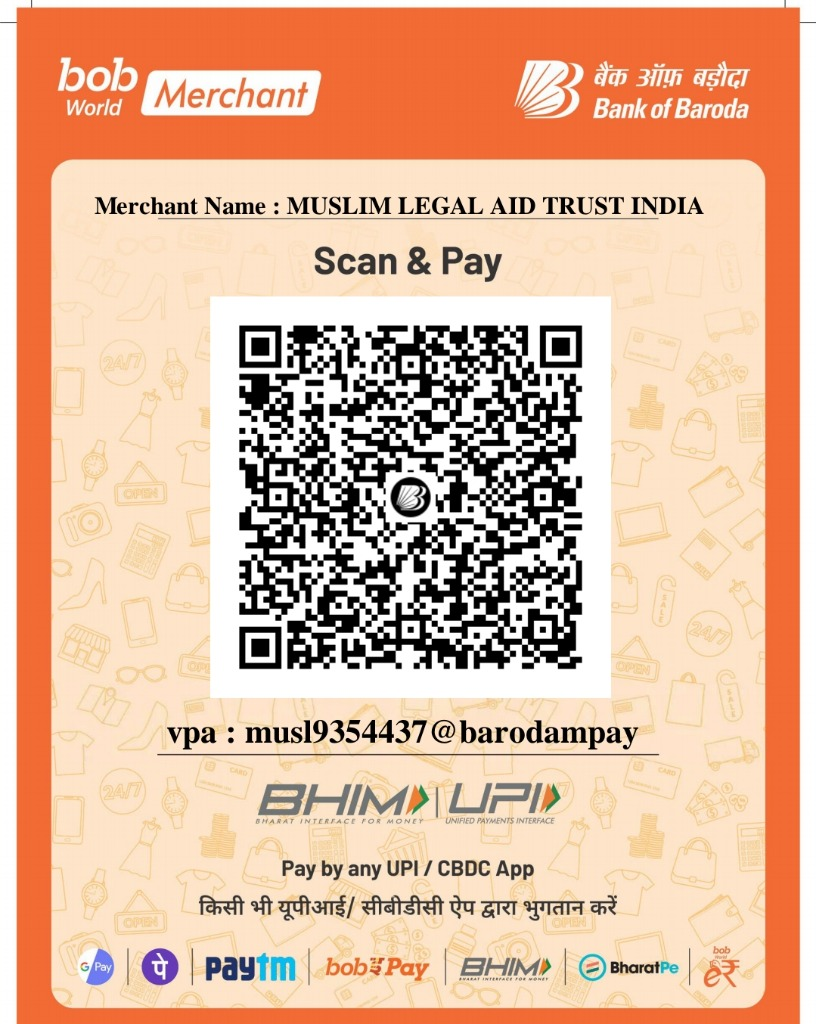
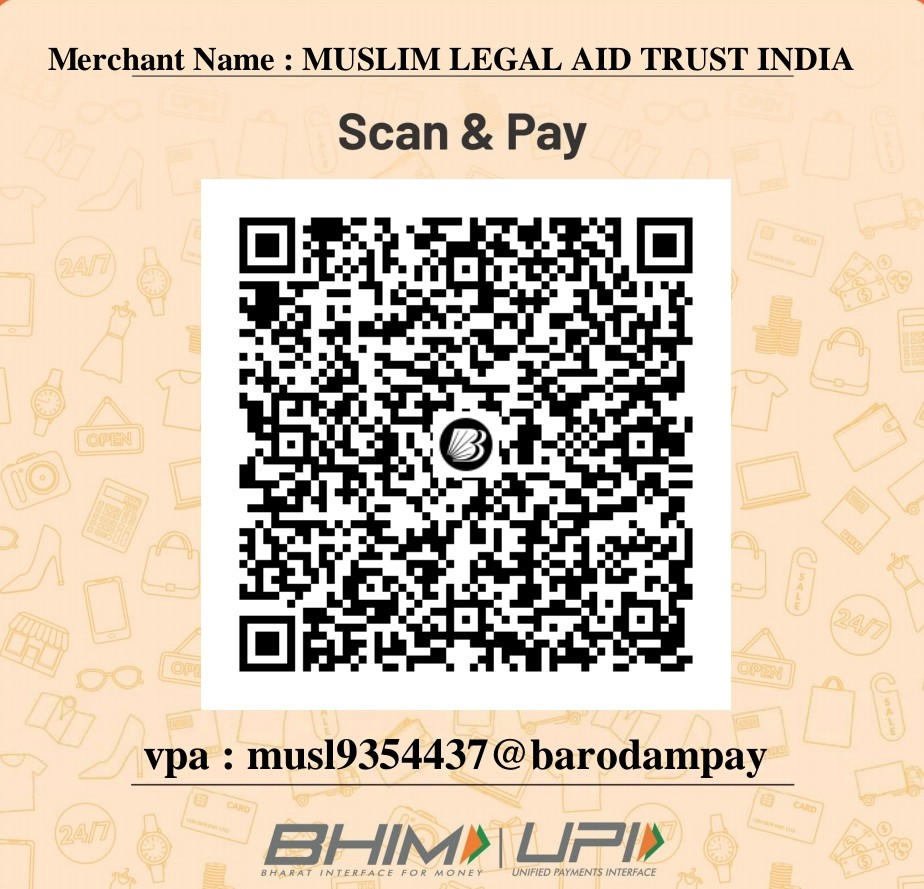
add bank transfer option, custom amount, new UPI QR

diff --git a/app/donate/page.tsx b/app/donate/page.tsx
@@ -6,7 +6,7 @@ import Navbar from "../components/Navbar";
 import Footer from "../components/Footer";
 import PageHero from "../components/PageHero";
 import MembershipForm from "./MembershipForm";
-import { UPI_ID, MERCHANT_NAME } from "./upi";
+import { UPI_ID, MERCHANT_NAME, BANK_DETAILS } from "./upi";
 
 const amounts = [500, 1000, 2500, 5000];
 
@@ -36,8 +36,9 @@ export default function DonatePage() {
   const [tab, setTab] = useState<"donate" | "membership">("donate");
 
   // Form Fields
-  const [selected, setSelected] = useState<number>(1000);
-  const [custom, setCustom] = useState<string>("");
+  const [amountInput, setAmountInput] = useState<string>("1000");
+  const [method, setMethod] = useState<"upi" | "bank">("upi");
+  const [copiedField, setCopiedField] = useState<string>("");
   const [name, setName] = useState<string>("");
   const [phone, setPhone] = useState<string>("");
   const [email, setEmail] = useState<string>("");
@@ -55,12 +56,20 @@ export default function DonatePage() {
   const [errorMsg, setErrorMsg] = useState<string>("");
   const [successData, setSuccessData] = useState<{ utr: string; amount: number } | null>(null);
 
-  const activeAmount = custom ? Number(custom) : selected;
+  const activeAmount = Number(amountInput) >= 1 ? Number(amountInput) : 0;
+  const amountInputRef = useRef<HTMLInputElement>(null);
+  const isCustomAmount = !amounts.includes(Number(amountInput));
 
   const handleCopyUpi = () => {
     navigator.clipboard.writeText(UPI_ID);
     setCopied(true);
     setTimeout(() => setCopied(false), 2500);
+  };
+
+  const handleCopyField = (key: string, value: string) => {
+    navigator.clipboard.writeText(value);
+    setCopiedField(key);
+    setTimeout(() => setCopiedField((c) => (c === key ? "" : c)), 2000);
   };
 
   const handleFileChange = (e: React.ChangeEvent<HTMLInputElement>) => {
@@ -94,8 +103,8 @@ export default function DonatePage() {
     e.preventDefault();
     setErrorMsg("");
 
-    if (!activeAmount || activeAmount <= 0) {
-      setErrorMsg("Please choose or enter a valid donation amount.");
+    if (!activeAmount || activeAmount < 1) {
+      setErrorMsg("Please choose or enter a valid donation amount (minimum ₹1).");
       return;
     }
     if (!name.trim()) {
@@ -119,7 +128,13 @@ export default function DonatePage() {
     e.preventDefault();
     setErrorMsg("");
 
-    if (!/^\d{12}$/.test(utr.replace(/\s+/g, ""))) {
+    const cleanUtr = utr.replace(/\s+/g, "");
+    if (method === "bank") {
+      if (!/^[A-Za-z0-9]{12,22}$/.test(cleanUtr)) {
+        setErrorMsg("Please enter the Bank Transaction / UTR reference (12 to 22 letters or digits).");
+        return;
+      }
+    } else if (!/^\d{12}$/.test(cleanUtr)) {
       setErrorMsg("Please enter the 12-digit UPI Reference / UTR Number (digits only).");
       return;
     }
@@ -137,6 +152,7 @@ export default function DonatePage() {
       formData.append("email", email.trim());
       formData.append("amount", activeAmount.toString());
       formData.append("utr", utr.trim());
+      formData.append("method", method);
       formData.append("notes", notes.trim());
       formData.append("receipt", file);
 
@@ -305,7 +321,7 @@ export default function DonatePage() {
                   Every Contribution Builds a Fairer Future
                 </h2>
                 <p className="text-[13.5px] text-slate-500 mt-2">
-                  Select your contribution amount and fill in your details to generate your verified UPI scanner.
+                  Select your contribution amount, choose how you want to pay, and fill in your details.
                 </p>
 
                 {errorMsg && (
@@ -323,17 +339,14 @@ export default function DonatePage() {
                     <label className="text-[12.5px] font-bold uppercase tracking-wider text-slate-600 block mb-2">
                       Select Amount (₹)
                     </label>
-                    <div className="grid grid-cols-2 sm:grid-cols-4 gap-3">
+                    <div className="grid grid-cols-2 sm:grid-cols-5 gap-3">
                       {amounts.map((amt) => (
                         <button
                           key={amt}
                           type="button"
-                          onClick={() => {
-                            setSelected(amt);
-                            setCustom("");
-                          }}
+                          onClick={() => setAmountInput(String(amt))}
                           className={`py-3.5 rounded-xl text-[15px] font-bold border transition-all ${
-                            !custom && selected === amt
+                            Number(amountInput) === amt
                               ? "bg-[#0066FF] text-white border-[#0066FF] shadow-md shadow-blue-500/25 scale-[1.02]"
                               : "bg-slate-50 text-[#0D233A] border-slate-200 hover:border-[#0066FF]/50"
                           }`}
@@ -341,24 +354,68 @@ export default function DonatePage() {
                           ₹{amt.toLocaleString("en-IN")}
                         </button>
                       ))}
+                      <button
+                        type="button"
+                        onClick={() => {
+                          setAmountInput("");
+                          amountInputRef.current?.focus();
+                        }}
+                        className={`col-span-2 sm:col-span-1 py-3.5 rounded-xl text-[15px] font-bold border transition-all ${
+                          isCustomAmount
+                            ? "bg-[#0066FF] text-white border-[#0066FF] shadow-md shadow-blue-500/25 scale-[1.02]"
+                            : "bg-slate-50 text-[#0D233A] border-slate-200 hover:border-[#0066FF]/50"
+                        }`}
+                      >
+                        Custom
+                      </button>
                     </div>
                   </div>
 
-                  {/* Custom Amount */}
+                  {/* Amount box: shows the selected preset and accepts any custom amount */}
                   <div>
                     <label className="text-[12.5px] font-semibold text-slate-500 block mb-1.5">
-                      Or enter a custom amount (₹)
+                      Custom amount (₹) — any amount from ₹1
                     </label>
                     <div className="relative">
                       <span className="absolute left-4 top-1/2 -translate-y-1/2 text-slate-400 font-bold text-base">₹</span>
                       <input
+                        ref={amountInputRef}
                         type="number"
                         min={1}
-                        placeholder="e.g. 1500"
-                        value={custom}
-                        onChange={(e) => setCustom(e.target.value)}
+                        step={1}
+                        inputMode="numeric"
+                        placeholder="Enter any amount, e.g. 1"
+                        value={amountInput}
+                        onChange={(e) => setAmountInput(e.target.value)}
                         className="w-full pl-9 pr-4 py-3 bg-slate-50 border border-slate-200 rounded-xl text-[15px] font-semibold text-[#0D233A] placeholder-slate-400 focus:outline-none focus:ring-2 focus:ring-[#0066FF] focus:bg-white transition-all"
                       />
+                    </div>
+                  </div>
+
+                  {/* Payment Method */}
+                  <div>
+                    <label className="text-[12.5px] font-bold uppercase tracking-wider text-slate-600 block mb-2">
+                      Payment Method
+                    </label>
+                    <div className="grid grid-cols-2 gap-3">
+                      {([
+                        ["upi", "UPI", "Scan QR / UPI app"],
+                        ["bank", "Bank Account", "NEFT / IMPS / RTGS"],
+                      ] as const).map(([key, label, sub]) => (
+                        <button
+                          key={key}
+                          type="button"
+                          onClick={() => setMethod(key)}
+                          className={`py-3 px-4 rounded-xl border text-left transition-all cursor-pointer ${
+                            method === key
+                              ? "bg-blue-50 border-[#0066FF] ring-2 ring-[#0066FF]/20"
+                              : "bg-slate-50 border-slate-200 hover:border-[#0066FF]/50"
+                          }`}
+                        >
+                          <span className="block text-[14.5px] font-bold text-[#0D233A]">{label}</span>
+                          <span className="block text-[11.5px] text-slate-500">{sub}</span>
+                        </button>
+                      ))}
                     </div>
                   </div>
 
@@ -533,7 +590,60 @@ export default function DonatePage() {
               )}
 
               <div className="grid grid-cols-1 lg:grid-cols-12 gap-8 items-start">
+                {/* Left: Bank details (bank method) */}
+                {method === "bank" && (
+                  <div className="lg:col-span-5 bg-white rounded-3xl shadow-[0_10px_35px_rgba(13,35,58,0.08)] border border-slate-200/80 p-6">
+                    <div className="inline-flex items-center gap-2 px-3 py-1 bg-amber-50 border border-amber-200/70 rounded-full text-[12px] font-bold text-amber-800 mb-4">
+                      <span className="w-2 h-2 rounded-full bg-amber-500 animate-pulse" />
+                      Bank Account Transfer
+                    </div>
+                    <h3 className="text-[17px] font-extrabold text-[#0D233A]">Bank Account Details</h3>
+                    <p className="text-[12.5px] text-slate-500 mt-1">
+                      Transfer ₹{activeAmount.toLocaleString("en-IN")} via NEFT / IMPS / RTGS to the account below.
+                    </p>
+
+                    <div className="mt-4 space-y-2.5">
+                      {([
+                        ["holder", "Account Holder Name", BANK_DETAILS.accountHolder, true],
+                        ["acc", "Account Number", BANK_DETAILS.accountNumber, true],
+                        ["ifsc", "IFSC Code", BANK_DETAILS.ifsc, true],
+                        ["bank", "Bank Name", BANK_DETAILS.bankName, false],
+                        ["type", "Account Type", BANK_DETAILS.accountType, false],
+                        ["branch", "Branch", BANK_DETAILS.branch, false],
+                        ["city", "City / State / PIN", `${BANK_DETAILS.city}, ${BANK_DETAILS.state} - ${BANK_DETAILS.pincode}`, false],
+                      ] as const).map(([key, label, value, copyable]) => (
+                        <div key={key} className="p-3 bg-slate-50 border border-slate-200/80 rounded-2xl">
+                          <p className="text-[11px] font-bold text-slate-400 uppercase tracking-wider">{label}</p>
+                          <div className="flex items-center justify-between gap-2 mt-0.5">
+                            <span className={`text-[14px] font-bold text-[#0D233A] break-words min-w-0 ${copyable ? "font-mono" : ""}`}>
+                              {value}
+                            </span>
+                            {copyable && (
+                              <button
+                                type="button"
+                                onClick={() => handleCopyField(key, value)}
+                                className={`px-3 py-1.5 rounded-lg text-[12px] font-bold transition-all cursor-pointer flex-shrink-0 ${
+                                  copiedField === key
+                                    ? "bg-emerald-600 text-white"
+                                    : "bg-[#0066FF] hover:bg-[#0052CC] text-white"
+                                }`}
+                              >
+                                {copiedField === key ? "Copied!" : "Copy"}
+                              </button>
+                            )}
+                          </div>
+                        </div>
+                      ))}
+                    </div>
+
+                    <p className="mt-4 text-[12px] leading-relaxed text-amber-800 bg-amber-50 border border-amber-200/70 rounded-xl p-3">
+                      Note: In the IFSC, the character after <strong>B</strong> is the digit zero (<strong>0</strong>), not the letter O. Please verify the beneficiary name and account details with your bank before transferring.
+                    </p>
+                  </div>
+                )}
+
                 {/* Left: UPI Scanner Poster */}
+                {method === "upi" && (
                 <div className="lg:col-span-5 bg-white rounded-3xl shadow-[0_10px_35px_rgba(13,35,58,0.08)] border border-slate-200/80 p-6 text-center">
                   <div className="inline-flex items-center gap-2 px-3 py-1 bg-amber-50 border border-amber-200/70 rounded-full text-[12px] font-bold text-amber-800 mb-4">
                     <span className="w-2 h-2 rounded-full bg-amber-500 animate-pulse" />
@@ -606,6 +716,7 @@ export default function DonatePage() {
                     </a>
                   </div>
                 </div>
+                )}
 
                 {/* Right: Receipt Upload Form */}
                 <div className="lg:col-span-7 bg-white rounded-3xl shadow-[0_10px_35px_rgba(13,35,58,0.08)] border border-slate-200/80 p-6 sm:p-10">
@@ -618,25 +729,30 @@ export default function DonatePage() {
                     Upload Payment Receipt
                   </h2>
                   <p className="text-[13.5px] text-slate-500 mt-1.5">
-                    After completing the payment on your UPI app, please enter your transaction reference number and attach the screenshot.
+                    {method === "bank"
+                      ? "After completing the bank transfer, please enter your transaction reference (UTR) number and attach the payment screenshot or receipt."
+                      : "After completing the payment on your UPI app, please enter your transaction reference number and attach the screenshot."}
                   </p>
 
                   <form onSubmit={handleSubmitReceipt} className="mt-6 space-y-5">
                     {/* 12 Digit UTR Number */}
                     <div>
                       <label className="text-[13px] font-bold text-[#0D233A] block mb-1">
-                        12-Digit UPI Reference No. / UTR <span className="text-red-500">*</span>
+                        {method === "bank" ? "Bank Transaction Ref. No. / UTR" : "12-Digit UPI Reference No. / UTR"}{" "}
+                        <span className="text-red-500">*</span>
                       </label>
                       <input
                         type="text"
                         required
-                        placeholder="e.g. 429182749102"
+                        placeholder={method === "bank" ? "e.g. BARBN26123456789" : "e.g. 429182749102"}
                         value={utr}
                         onChange={(e) => setUtr(e.target.value)}
                         className="w-full px-4 py-3 bg-slate-50 border border-slate-200 rounded-xl text-[15px] font-mono text-[#0D233A] placeholder-slate-400 focus:outline-none focus:ring-2 focus:ring-[#0066FF] focus:bg-white transition-all tracking-wide"
                       />
                       <p className="text-[11.5px] text-slate-400 mt-1">
-                        You can find this 12-digit number in the payment details on GPay, PhonePe, or Paytm.
+                        {method === "bank"
+                          ? "Find the UTR / reference number in your net banking or bank app transaction details (12–22 characters)."
+                          : "You can find this 12-digit number in the payment details on GPay, PhonePe, or Paytm."}
                       </p>
                     </div>
 
@@ -776,7 +892,9 @@ export default function DonatePage() {
                   </span>
                 </div>
                 <div className="flex justify-between items-center py-1 border-b border-slate-200/60">
-                  <span className="text-[13px] text-slate-500 font-medium">UPI UTR / Ref No.</span>
+                  <span className="text-[13px] text-slate-500 font-medium">
+                    {method === "bank" ? "Bank UTR / Ref No." : "UPI UTR / Ref No."}
+                  </span>
                   <span className="text-[13.5px] font-mono font-bold text-[#0D233A]">
                     {successData?.utr}
                   </span>
@@ -869,11 +987,19 @@ export default function DonatePage() {
             <div className="grid grid-cols-1 sm:grid-cols-2 lg:grid-cols-4 gap-4 mt-6">
               <div className="p-4 rounded-2xl bg-slate-50 border border-slate-200/80">
                 <span className="text-[11.5px] font-bold text-slate-400 uppercase tracking-wider block">Beneficiary Name</span>
-                <span className="text-[14px] font-bold text-[#0D233A] mt-1 block">Muslim Legal Aid Trust India</span>
+                <span className="text-[14px] font-bold text-[#0D233A] mt-1 block">{BANK_DETAILS.accountHolder}</span>
               </div>
               <div className="p-4 rounded-2xl bg-slate-50 border border-slate-200/80">
-                <span className="text-[11.5px] font-bold text-slate-400 uppercase tracking-wider block">Bank Name</span>
-                <span className="text-[14px] font-bold text-[#0D233A] mt-1 block">Bank of Baroda</span>
+                <span className="text-[11.5px] font-bold text-slate-400 uppercase tracking-wider block">Bank / Branch</span>
+                <span className="text-[14px] font-bold text-[#0D233A] mt-1 block">{BANK_DETAILS.bankName}, GTR Panipat</span>
+              </div>
+              <div className="p-4 rounded-2xl bg-slate-50 border border-slate-200/80">
+                <span className="text-[11.5px] font-bold text-slate-400 uppercase tracking-wider block">Account Number ({BANK_DETAILS.accountType})</span>
+                <span className="text-[14px] font-mono font-bold text-[#0D233A] mt-1 block">{BANK_DETAILS.accountNumber}</span>
+              </div>
+              <div className="p-4 rounded-2xl bg-slate-50 border border-slate-200/80">
+                <span className="text-[11.5px] font-bold text-slate-400 uppercase tracking-wider block">IFSC Code</span>
+                <span className="text-[14px] font-mono font-bold text-[#0D233A] mt-1 block">{BANK_DETAILS.ifsc}</span>
               </div>
               <div className="p-4 rounded-2xl bg-slate-50 border border-slate-200/80">
                 <span className="text-[11.5px] font-bold text-slate-400 uppercase tracking-wider block">UPI VPA</span>

diff --git a/app/api/donate/route.ts b/app/api/donate/route.ts
@@ -32,7 +32,16 @@ export async function POST(req: Request) {
       );
     }
 
-    if (!/^\d{12}$/.test(utr)) {
+    const isBank = form.get("method")?.toString() === "bank";
+    if (isBank) {
+      // IMPS: 12 digits, NEFT: 16 alphanumeric, RTGS: 22 alphanumeric.
+      if (!/^[A-Za-z0-9]{12,22}$/.test(utr)) {
+        return NextResponse.json(
+          { error: "Bank Transaction / UTR reference must be 12 to 22 letters or digits." },
+          { status: 400 }
+        );
+      }
+    } else if (!/^\d{12}$/.test(utr)) {
       return NextResponse.json(
         { error: "UPI Reference / UTR must be exactly 12 digits." },
         { status: 400 }
@@ -40,7 +49,7 @@ export async function POST(req: Request) {
     }
 
     const amount = Number(amountStr);
-    if (isNaN(amount) || amount <= 0) {
+    if (isNaN(amount) || amount < 1) {
       return NextResponse.json({ error: "Invalid donation amount." }, { status: 400 });
     }
 
@@ -107,7 +116,7 @@ export async function POST(req: Request) {
         utr_number: utr,
         receipt_url: receiptUrl,
         receipt_file_id: receiptFileId,
-        mode: "UPI",
+        mode: isBank ? "Bank Transfer" : "UPI",
         status: "Pending",
         notes,
       })

diff --git a/app/donate/upi.ts b/app/donate/upi.ts
@@ -1,2 +1,14 @@
 export const UPI_ID = "musl9354437@barodampay";
 export const MERCHANT_NAME = "MUSLIM LEGAL AID TRUST INDIA";
+
+export const BANK_DETAILS = {
+  accountHolder: "MUSLIM LEGAL AID TRUST (INDIA)",
+  bankName: "Bank of Baroda",
+  accountNumber: "07720200001437",
+  ifsc: "BARB0PANIPA",
+  accountType: "Current Account",
+  branch: "GTR Panipat, Adjacent Kishore Cinema Branch",
+  city: "Panipat",
+  state: "Haryana",
+  pincode: "132103",
+};
